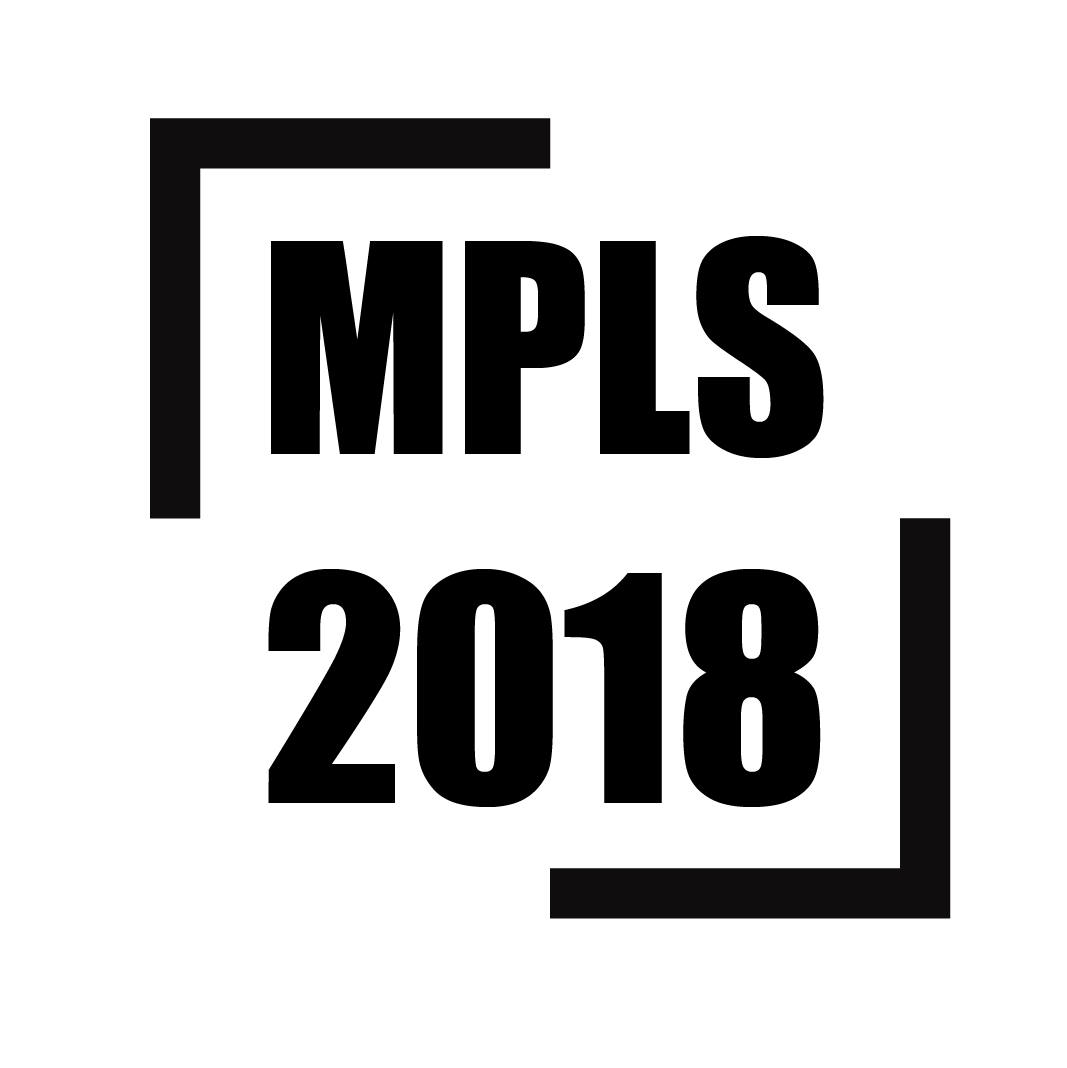
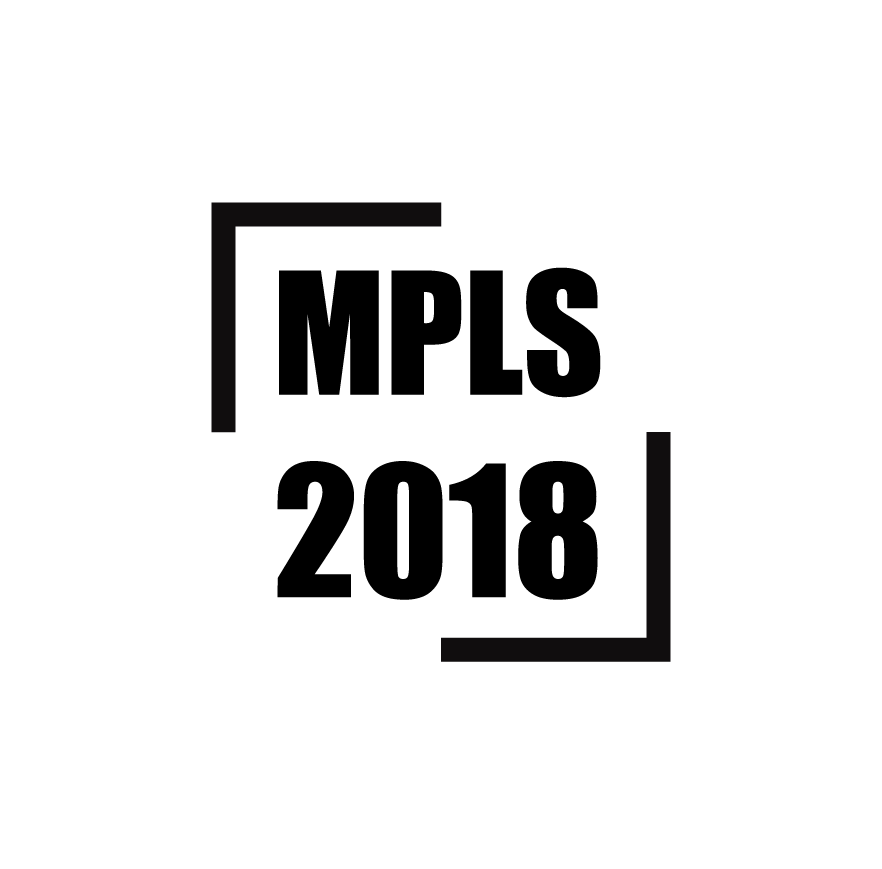
Fix the MPLS Images and replace the old blog post

Changed region(s): [[0.1224, 0.0932, 0.7959, 0.4971], [0.2449, 0.4971, 0.7959, 0.7768], [0.4898, 0.4661, 0.9184, 0.87]]

diff --git a/public/index.html b/public/index.html
@@ -6,7 +6,7 @@
 -->
 <html>
 	<head>
-		<title>Hyperspace by HTML5 UP</title>
+		<title>OSISMPK SMANIWA</title>
 		<meta charset="utf-8" />
 		<meta name="viewport" content="width=device-width, initial-scale=1, user-scalable=no" />
 		<link rel="stylesheet" href="assets/css/main.css" />
@@ -53,7 +53,7 @@
 									<h2>MPLS 2k18</h2>
 									<p></p>
 									<ul class="actions">
-										<li><a href="generic.html" class="button">Learn more</a></li>
+										<li><a href="https://osismpksmaniwa.github.io/mpls2018" class="button">Baca selengkapnya</a></li>
 									</ul>
 								</div>
 							</div>
